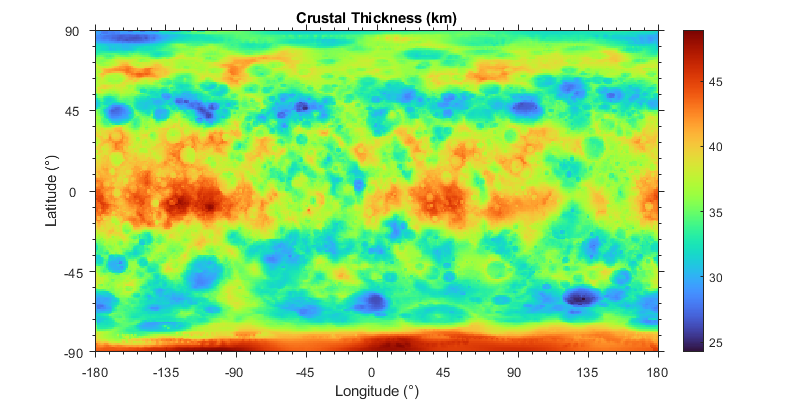
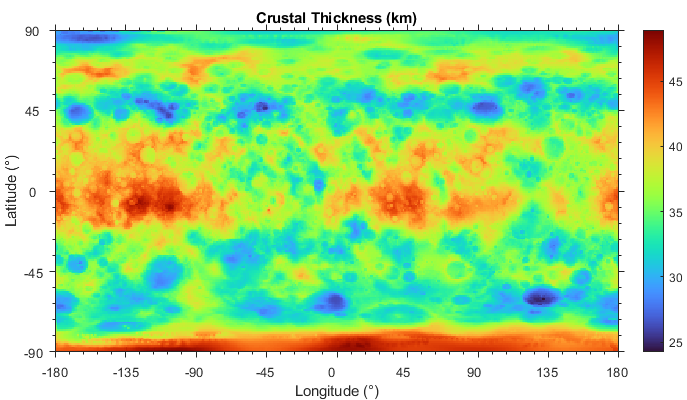
another sync

diff --git a/Assignment2_3.m b/Assignment2_3.m
@@ -48,7 +48,7 @@ Model.nmax = 18;
 
 % Crust layer
 Crust_thickness = - 37.7e3;
-Crust_density = 1215;
+Crust_density = 0.5*1215;%1215;
 
 % Mantle layer
 Mantle_density = 2429;
@@ -111,6 +111,9 @@ set(gca, 'YTickLabel', -90:45:90);
 set(gca, 'XMinorTick', 'on', 'XMinorGrid', 'off');
 set(gca, 'YMinorTick', 'on', 'YMinorGrid', 'off');
 set(gca, 'TickDir', 'out');
+caxis_boundary = [2.423469247715436e+01, 4.892657201267425e+01];
+caxis(caxis_boundary); % Set color scale range for boundary
 
+stop
 % Save Tickness
 save('Data/Bouguer_Inversion_Thickness_Ceres.mat', 'Thickness_matrix');

diff --git a/Assignment2_2.m b/Assignment2_2.m
@@ -170,9 +170,9 @@ gravity_delta = data2.vec.R;%sqrt(data2.vec.X.^2 + data2.vec.Y.^2 + data2.vec.Z.
 
 Bouguer_anom = gravity_delta - Bouguer_corr;
 
-gt = 10;
+gt = 0;
 figure('Position',[100 100 800 400]);
-imagesc(lonGrid, latGrid(1+gt:end-gt), Bouguer_anom(1+gt:end-gt , :).*1e5);
+imagesc(lonGrid, latGrid(1+gt:end-gt), gravity_delta(1+gt:end-gt , :).*1e5);
 colorbar;
 xlabel('Longitude (°)');
 ylabel('Latitude (°)');
